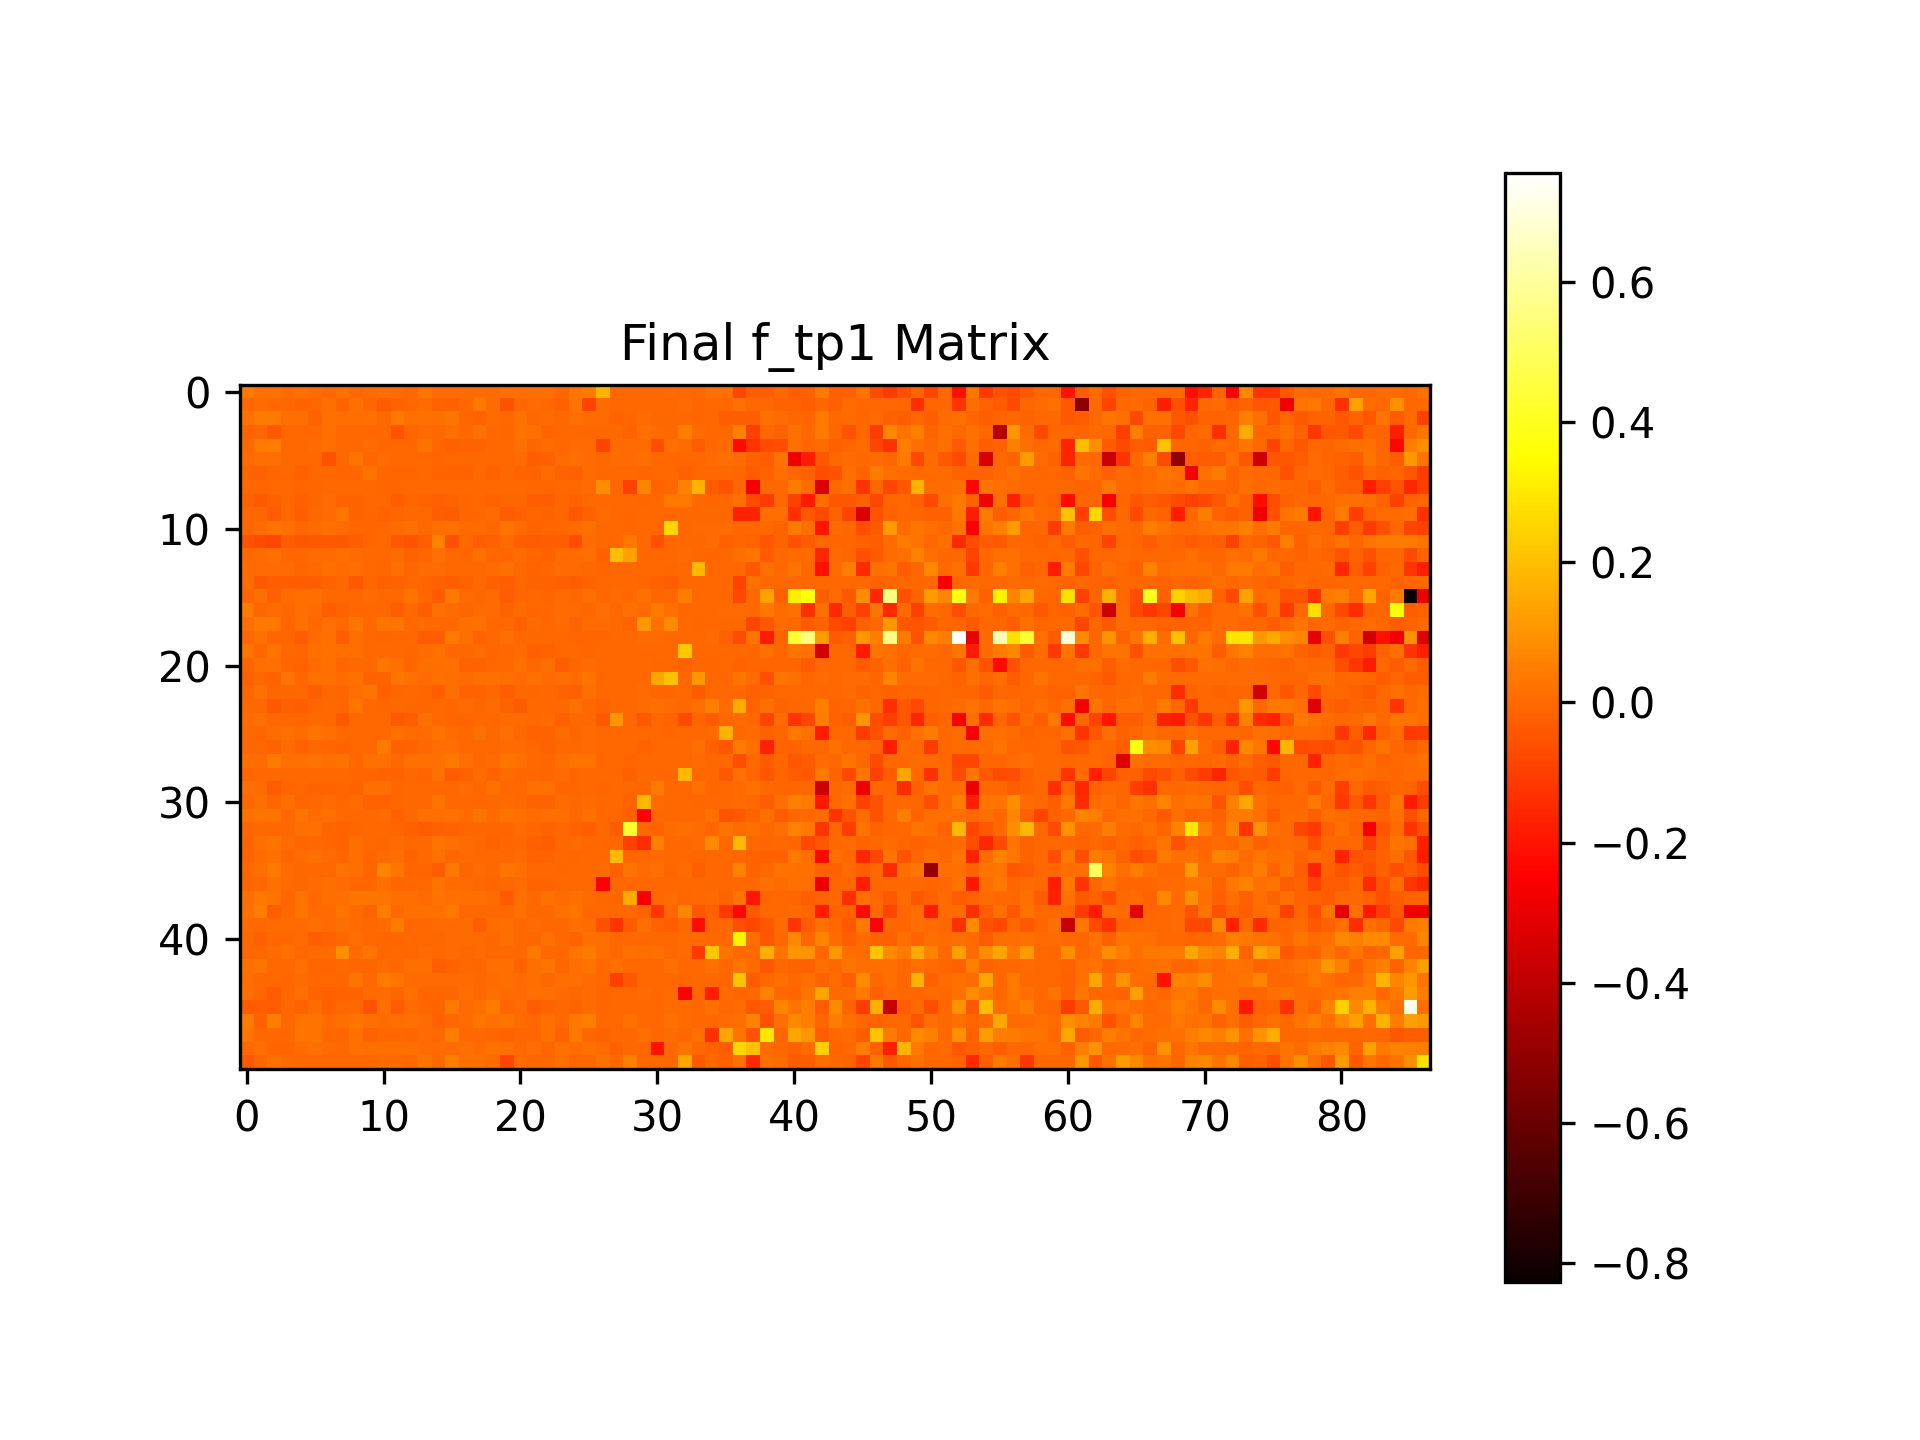
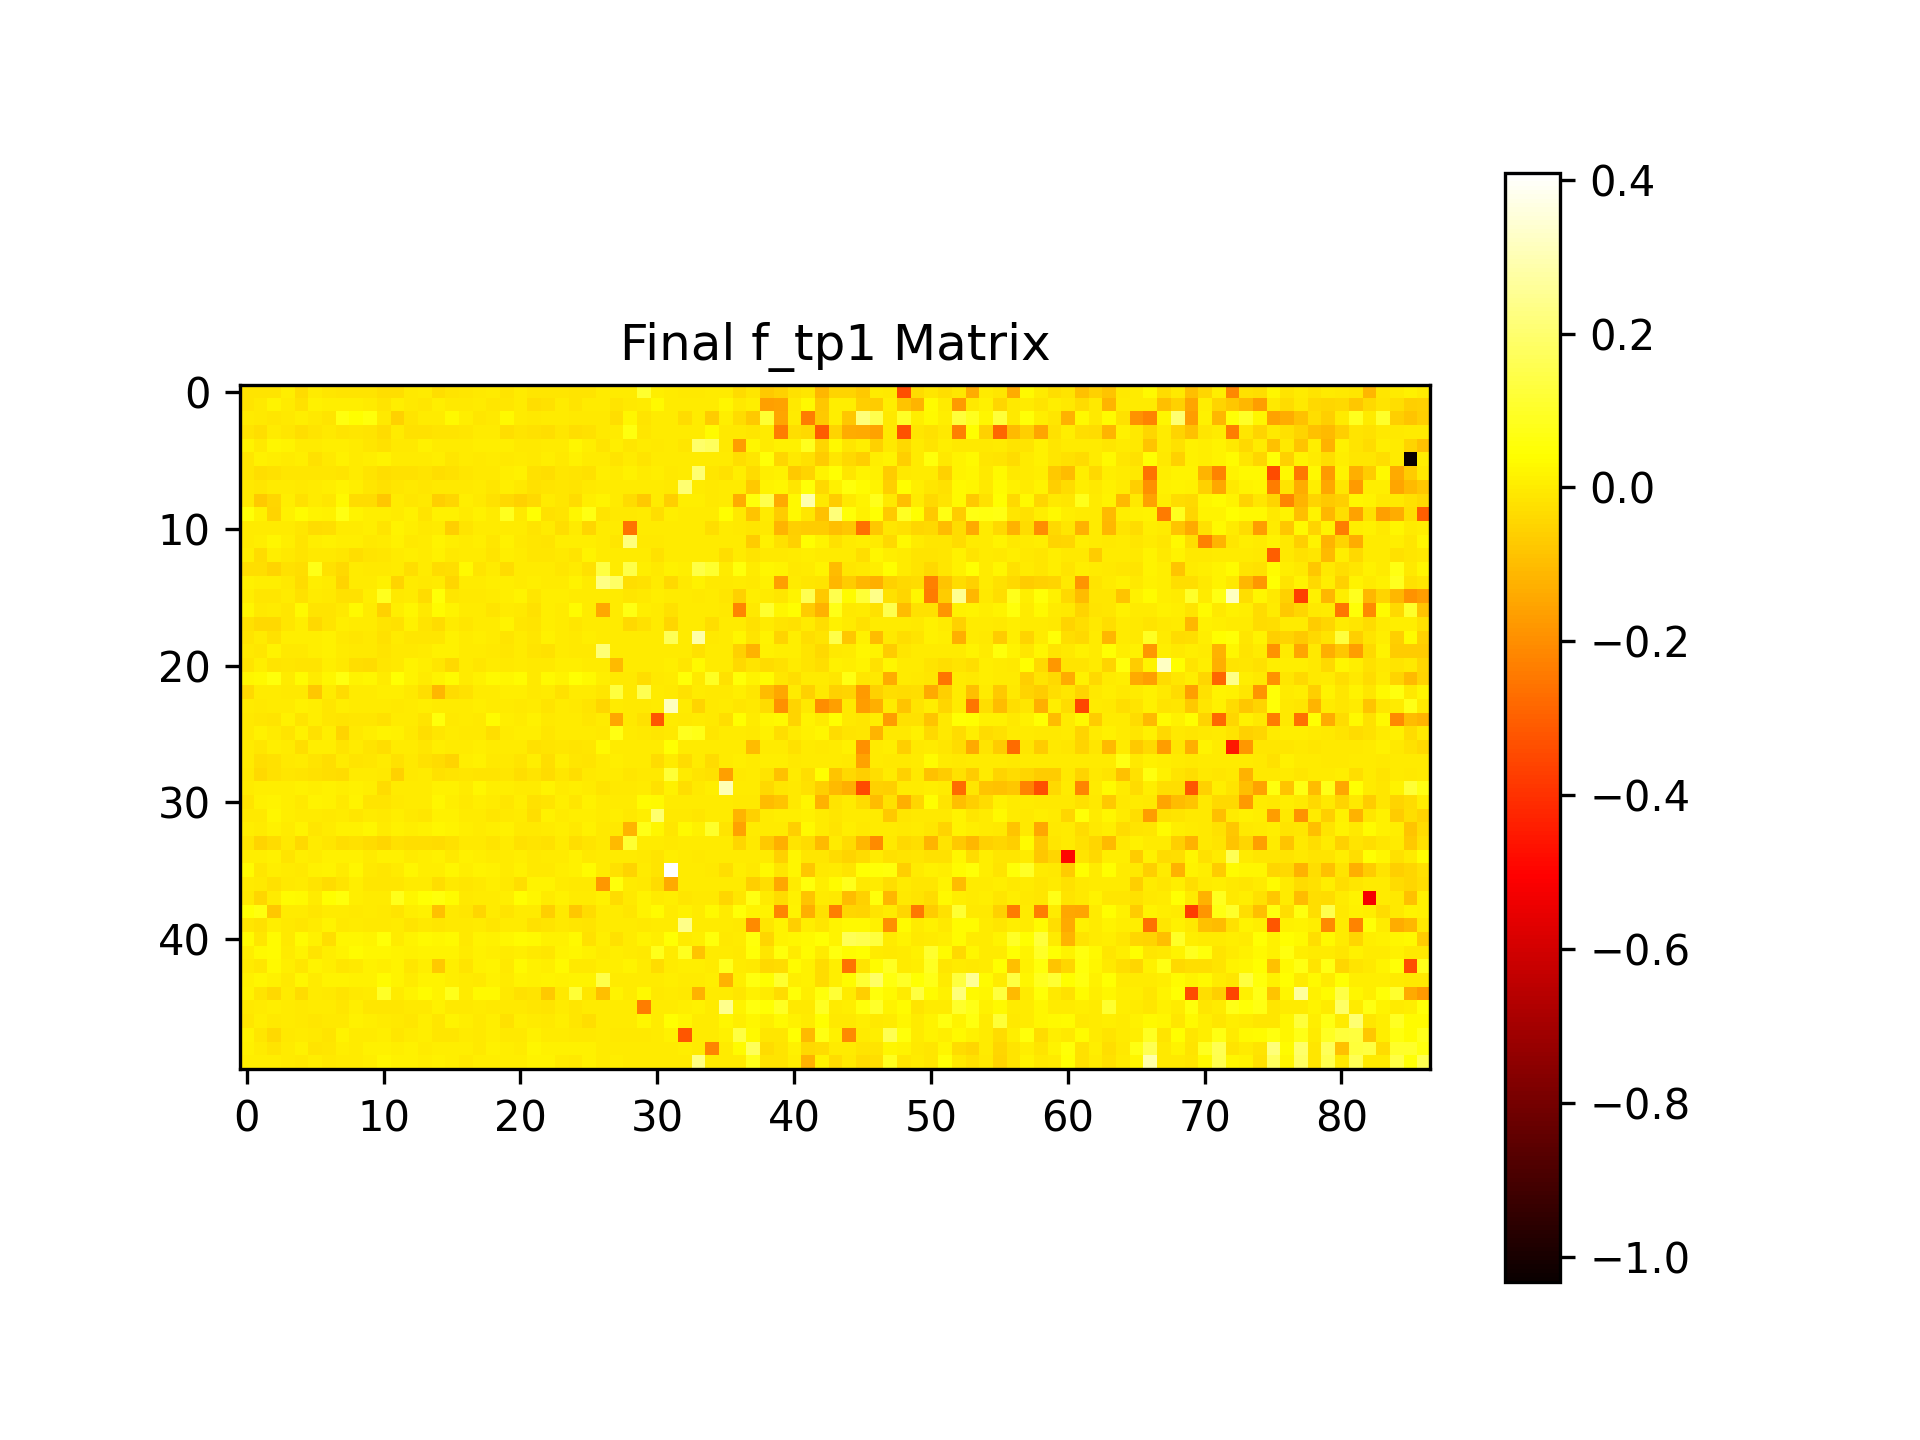
large exp added

diff --git a/.ipynb_checkpoints/EI_exp-checkpoint.py b/.ipynb_checkpoints/EI_exp-checkpoint.py
@@ -3,6 +3,7 @@ import math
 from typing import Optional, Tuple
 import numpy as np
 import matplotlib.pyplot as plt
+import pickle
 
 import torch
 
@@ -95,7 +96,7 @@ def main(config):
 
     net = STPNR(
         input_size=37,  # alphabet character + digits + '?' sign
-        hidden_size=50,
+        hidden_size=100,
         output_size=output_size,  # predict possibly any character
     )
 
@@ -104,7 +105,8 @@ def main(config):
     loss_function = torch.nn.CrossEntropyLoss()
     optimizer = torch.optim.Adam(net.parameters(), lr=0.001)
 
-    n_epochs, best_validation_acc = 100, -float('inf')
+    n_epochs, best_validation_acc = 150, -float('inf')
+    e_to_e_mean, e_to_i_mean = None, None
     #change to 200
     for i_epoch in range(1, n_epochs + 1):
         for sentence, tags in train_dataloader:
@@ -194,6 +196,8 @@ def main(config):
             plt.title('Final f_tp1 Matrix')
             plt.savefig('matrix_syn.png', dpi=300)
             plt.close()
+    return e_to_e_mean, e_to_i_mean
+      
     
 
 
@@ -202,5 +206,70 @@ def main(config):
 if __name__ == "__main__":
     parser = argparse.ArgumentParser()
     parser.add_argument("--gpu", type=int, help="id of gpu used for gradient backpropagation", default=0)
-    parsed_args = parser.parse_args()
-    main(vars(parsed_args))
+    args = parser.parse_args()
+
+    # Lists to store the mean values from each run
+    e_to_e_means = []
+    e_to_i_means = []
+
+    # Run the main function 10 times
+    for _ in range(50):
+        e_to_e_mean, e_to_i_mean = main(vars(args))
+        e_to_e_means.append(e_to_e_mean)
+        e_to_i_means.append(e_to_i_mean)
+
+    # Compute mean and standard deviation
+    mean_e_to_e = np.mean(e_to_e_means)
+    std_e_to_e = np.std(e_to_e_means)
+
+    mean_e_to_i = np.mean(e_to_i_means)
+    std_e_to_i = np.std(e_to_i_means)
+    
+    with open('e_to_e_means.pkl', 'wb') as f:
+        pickle.dump(e_to_e_means, f)
+
+    with open('e_to_i_means.pkl', 'wb') as f:
+        pickle.dump(e_to_i_means, f)
+
+    # Plotting
+    for e_to_e, e_to_i in zip(e_to_e_means, e_to_i_means):
+        plt.scatter(['E-to-E'], [e_to_e], color='red', alpha=0.5)  # Individual E-to-E means
+        plt.scatter(['E-to-I'], [e_to_i], color='blue', alpha=0.5)  # Individual E-to-I means
+
+    # Plot the overall mean and standard deviation as error bars
+    plt.errorbar(['E-to-E'], [mean_e_to_e], yerr=[std_e_to_e], fmt='o', label='E-to-E Mean', color='red', capsize=5)
+    plt.errorbar(['E-to-I'], [mean_e_to_i], yerr=[std_e_to_i], fmt='o', label='E-to-I Mean', color='blue', capsize=5)
+
+    plt.ylabel('Average Weight')
+    plt.title('Average Weights in E-I Network Across Runs')
+    plt.legend()
+    plt.savefig('average_weights_EI_across_runs.png', dpi=300)
+    plt.show()
+    
+    plt.clf()
+    
+    # Convert e_to_e_means and e_to_i_means to their absolute values
+    abs_e_to_e_means = [abs(x) for x in e_to_e_means]
+    abs_e_to_i_means = [abs(x) for x in e_to_i_means]
+
+    # Compute mean and standard deviation for the absolute values
+    abs_mean_e_to_e = np.mean(abs_e_to_e_means)
+    abs_std_e_to_e = np.std(abs_e_to_e_means)
+
+    abs_mean_e_to_i = np.mean(abs_e_to_i_means)
+    abs_std_e_to_i = np.std(abs_e_to_i_means)
+
+    # Plotting absolute values
+    for abs_e_to_e, abs_e_to_i in zip(abs_e_to_e_means, abs_e_to_i_means):
+        plt.scatter(['E-to-E'], [abs_e_to_e], color='red', alpha=0.5)  # Individual E-to-E means
+        plt.scatter(['E-to-I'], [abs_e_to_i], color='blue', alpha=0.5)  # Individual E-to-I means
+
+    # Plot the overall mean and standard deviation of absolute values as error bars
+    plt.errorbar(['E-to-E'], [abs_mean_e_to_e], yerr=[abs_std_e_to_e], fmt='o', label='E-to-E Mean (Abs)', color='red', capsize=5)
+    plt.errorbar(['E-to-I'], [abs_mean_e_to_i], yerr=[abs_std_e_to_i], fmt='o', label='E-to-I Mean (Abs)', color='blue', capsize=5)
+
+    plt.ylabel('Average Absolute Weight')
+    plt.title('Average Absolute Weights in E-I Network Across Runs')
+    plt.legend()
+    plt.savefig('average_abs_weights_EI_across_runs.png', dpi=300)
+    plt.show()

diff --git a/EI_exp.py b/EI_exp.py
@@ -3,6 +3,7 @@ import math
 from typing import Optional, Tuple
 import numpy as np
 import matplotlib.pyplot as plt
+import pickle
 
 import torch
 
@@ -95,7 +96,7 @@ def main(config):
 
     net = STPNR(
         input_size=37,  # alphabet character + digits + '?' sign
-        hidden_size=50,
+        hidden_size=100,
         output_size=output_size,  # predict possibly any character
     )
 
@@ -104,7 +105,8 @@ def main(config):
     loss_function = torch.nn.CrossEntropyLoss()
     optimizer = torch.optim.Adam(net.parameters(), lr=0.001)
 
-    n_epochs, best_validation_acc = 100, -float('inf')
+    n_epochs, best_validation_acc = 150, -float('inf')
+    e_to_e_mean, e_to_i_mean = None, None
     #change to 200
     for i_epoch in range(1, n_epochs + 1):
         for sentence, tags in train_dataloader:
@@ -194,6 +196,8 @@ def main(config):
             plt.title('Final f_tp1 Matrix')
             plt.savefig('matrix_syn.png', dpi=300)
             plt.close()
+    return e_to_e_mean, e_to_i_mean
+      
     
 
 
@@ -202,5 +206,70 @@ def main(config):
 if __name__ == "__main__":
     parser = argparse.ArgumentParser()
     parser.add_argument("--gpu", type=int, help="id of gpu used for gradient backpropagation", default=0)
-    parsed_args = parser.parse_args()
-    main(vars(parsed_args))
+    args = parser.parse_args()
+
+    # Lists to store the mean values from each run
+    e_to_e_means = []
+    e_to_i_means = []
+
+    # Run the main function 10 times
+    for _ in range(50):
+        e_to_e_mean, e_to_i_mean = main(vars(args))
+        e_to_e_means.append(e_to_e_mean)
+        e_to_i_means.append(e_to_i_mean)
+
+    # Compute mean and standard deviation
+    mean_e_to_e = np.mean(e_to_e_means)
+    std_e_to_e = np.std(e_to_e_means)
+
+    mean_e_to_i = np.mean(e_to_i_means)
+    std_e_to_i = np.std(e_to_i_means)
+    
+    with open('e_to_e_means.pkl', 'wb') as f:
+        pickle.dump(e_to_e_means, f)
+
+    with open('e_to_i_means.pkl', 'wb') as f:
+        pickle.dump(e_to_i_means, f)
+
+    # Plotting
+    for e_to_e, e_to_i in zip(e_to_e_means, e_to_i_means):
+        plt.scatter(['E-to-E'], [e_to_e], color='red', alpha=0.5)  # Individual E-to-E means
+        plt.scatter(['E-to-I'], [e_to_i], color='blue', alpha=0.5)  # Individual E-to-I means
+
+    # Plot the overall mean and standard deviation as error bars
+    plt.errorbar(['E-to-E'], [mean_e_to_e], yerr=[std_e_to_e], fmt='o', label='E-to-E Mean', color='red', capsize=5)
+    plt.errorbar(['E-to-I'], [mean_e_to_i], yerr=[std_e_to_i], fmt='o', label='E-to-I Mean', color='blue', capsize=5)
+
+    plt.ylabel('Average Weight')
+    plt.title('Average Weights in E-I Network Across Runs')
+    plt.legend()
+    plt.savefig('average_weights_EI_across_runs.png', dpi=300)
+    plt.show()
+    
+    plt.clf()
+    
+    # Convert e_to_e_means and e_to_i_means to their absolute values
+    abs_e_to_e_means = [abs(x) for x in e_to_e_means]
+    abs_e_to_i_means = [abs(x) for x in e_to_i_means]
+
+    # Compute mean and standard deviation for the absolute values
+    abs_mean_e_to_e = np.mean(abs_e_to_e_means)
+    abs_std_e_to_e = np.std(abs_e_to_e_means)
+
+    abs_mean_e_to_i = np.mean(abs_e_to_i_means)
+    abs_std_e_to_i = np.std(abs_e_to_i_means)
+
+    # Plotting absolute values
+    for abs_e_to_e, abs_e_to_i in zip(abs_e_to_e_means, abs_e_to_i_means):
+        plt.scatter(['E-to-E'], [abs_e_to_e], color='red', alpha=0.5)  # Individual E-to-E means
+        plt.scatter(['E-to-I'], [abs_e_to_i], color='blue', alpha=0.5)  # Individual E-to-I means
+
+    # Plot the overall mean and standard deviation of absolute values as error bars
+    plt.errorbar(['E-to-E'], [abs_mean_e_to_e], yerr=[abs_std_e_to_e], fmt='o', label='E-to-E Mean (Abs)', color='red', capsize=5)
+    plt.errorbar(['E-to-I'], [abs_mean_e_to_i], yerr=[abs_std_e_to_i], fmt='o', label='E-to-I Mean (Abs)', color='blue', capsize=5)
+
+    plt.ylabel('Average Absolute Weight')
+    plt.title('Average Absolute Weights in E-I Network Across Runs')
+    plt.legend()
+    plt.savefig('average_abs_weights_EI_across_runs.png', dpi=300)
+    plt.show()

diff --git a/.ipynb_checkpoints/script_EI-checkpoint.py b/.ipynb_checkpoints/script_EI-checkpoint.py
@@ -194,6 +194,7 @@ def main(config):
             plt.title('Final f_tp1 Matrix')
             plt.savefig('matrix_syn.png', dpi=300)
             plt.close()
+    
 
 
 
